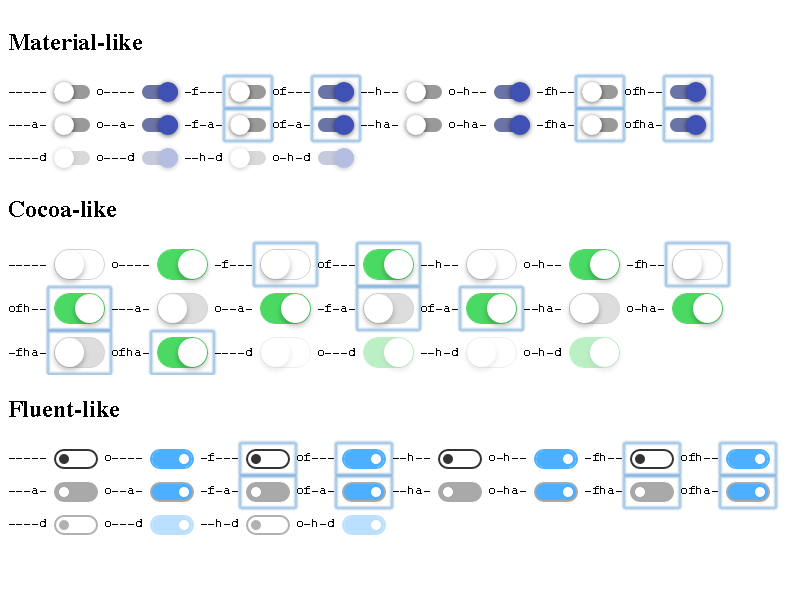
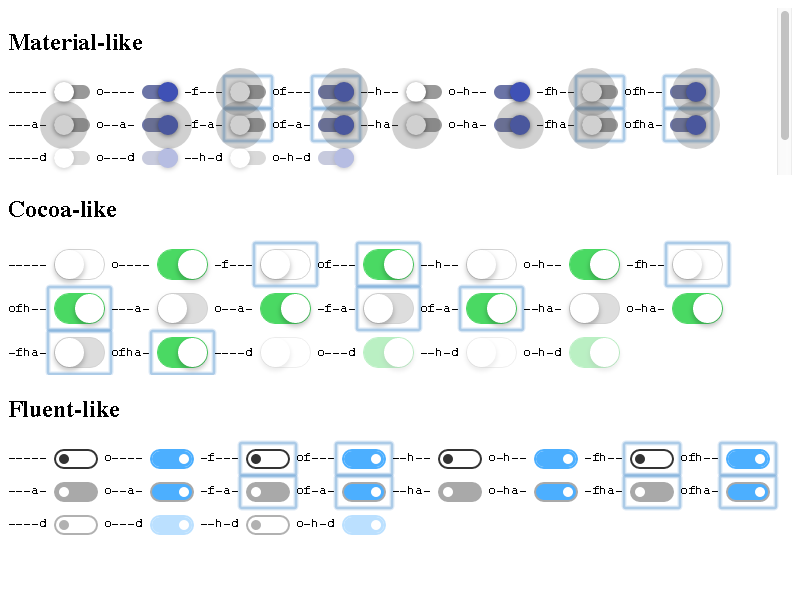
std-switch: Remove the ripple element in the switch shadow tree
The element is unnecessary.  We can implement ripple effect in author's
stylesheets.

The test switch-appearance-customization.html has a sample
implementation of ripple effect.

Bug: 972476
Commit-Queue: Domenic Denicola <domenic@chromium.org>
Cr-Commit-Position: refs/heads/master@{#685314}

diff --git a/web_tests/std-switch/switch-appearance-customization.html b/web_tests/std-switch/switch-appearance-customization.html
@@ -10,6 +10,10 @@ std-switch {
 .material std-switch {
   block-size: 20px;
   inline-size: 36px;
+
+  --thumb-size: 20px;
+  --ripple-color: rgba(100,100,100,0.3);
+  --ripple-max-size: 48px;
 }
 
 .material std-switch::part(track) {
@@ -24,11 +28,11 @@ std-switch {
 }
 
 .material std-switch::part(thumb) {
-  block-size: 20px;
-  border-radius: 10px;
+  block-size: var(--thumb-size);
+  border-radius: calc(var(--thumb-size) / 2);
   border: none;
   box-shadow: 0 1px 5px 0 rgba(0,0,0,0.6);
-  inline-size: 20px;
+  inline-size: var(--thumb-size);
   margin-inline-start: -100%;
 }
 
@@ -38,10 +42,65 @@ std-switch {
 }
 
 .material std-switch:hover::part(thumb) {
-  inline-size: 20px;
+  inline-size: var(--thumb-size);
 }
 
-/* TODO(tkent): add style for ripple effect. */
+/*
+ * Ripple effect
+ *
+ * Translucent circle is painted on the thumb if the element is :active or
+ * :focus-visible.  It has
+ *   - Size transition when it appears
+ *   - Opacity transition when it disappears
+ * part(thumb)::before represents the former, and part(thumb)::after represents
+ * the latter.
+ */
+.material std-switch::part(thumb)::before {
+  background: var(--ripple-color);
+  block-size: 0px;
+  border-radius: 0px;
+  content: "";
+  display: inline-block;
+  inline-size: 0px;
+  left: calc(var(--thumb-size) / 2);
+  position: relative;
+  top: calc(var(--thumb-size) / 2);
+  transition: none;
+}
+
+.material std-switch:active::part(thumb)::before,
+.material std-switch:focus-visible::part(thumb)::before {
+  block-size: var(--ripple-max-size);
+  border-radius: calc(var(--ripple-max-size) / 2);
+  inline-size: var(--ripple-max-size);
+  left: calc((var(--thumb-size) - var(--ripple-max-size)) / 2);
+  top: calc((var(--thumb-size) - var(--ripple-max-size)) / 2);
+  /* transition: all linear 0.1s; transition is harmful in pixel tests. */
+}
+
+.material std-switch::part(thumb)::after {
+  background: var(--ripple-color);
+  block-size: var(--ripple-max-size);
+  border-radius: calc(var(--ripple-max-size) / 2);
+  content: "";
+  display: inline-block;
+  inline-size: var(--ripple-max-size);
+  left: calc((var(--thumb-size) - var(--ripple-max-size)) / 2);
+  opacity: 0;
+  position: relative;
+  /* Why 18px? */
+  top: calc((var(--thumb-size) - var(--ripple-max-size)) / 2 - 18px);
+  /* transition: opacity linear 0.3s; transition is harmful in pixel tests. */
+}
+
+.material std-switch:active::part(thumb)::after,
+.material std-switch:focus-visible::part(thumb)::after {
+  block-size: 0px;
+  content: "";
+  inline-size: 0px;
+  opacity: 1;
+  transition: none;
+}
 
 /* ---------------------------------------------------------------- */
 
